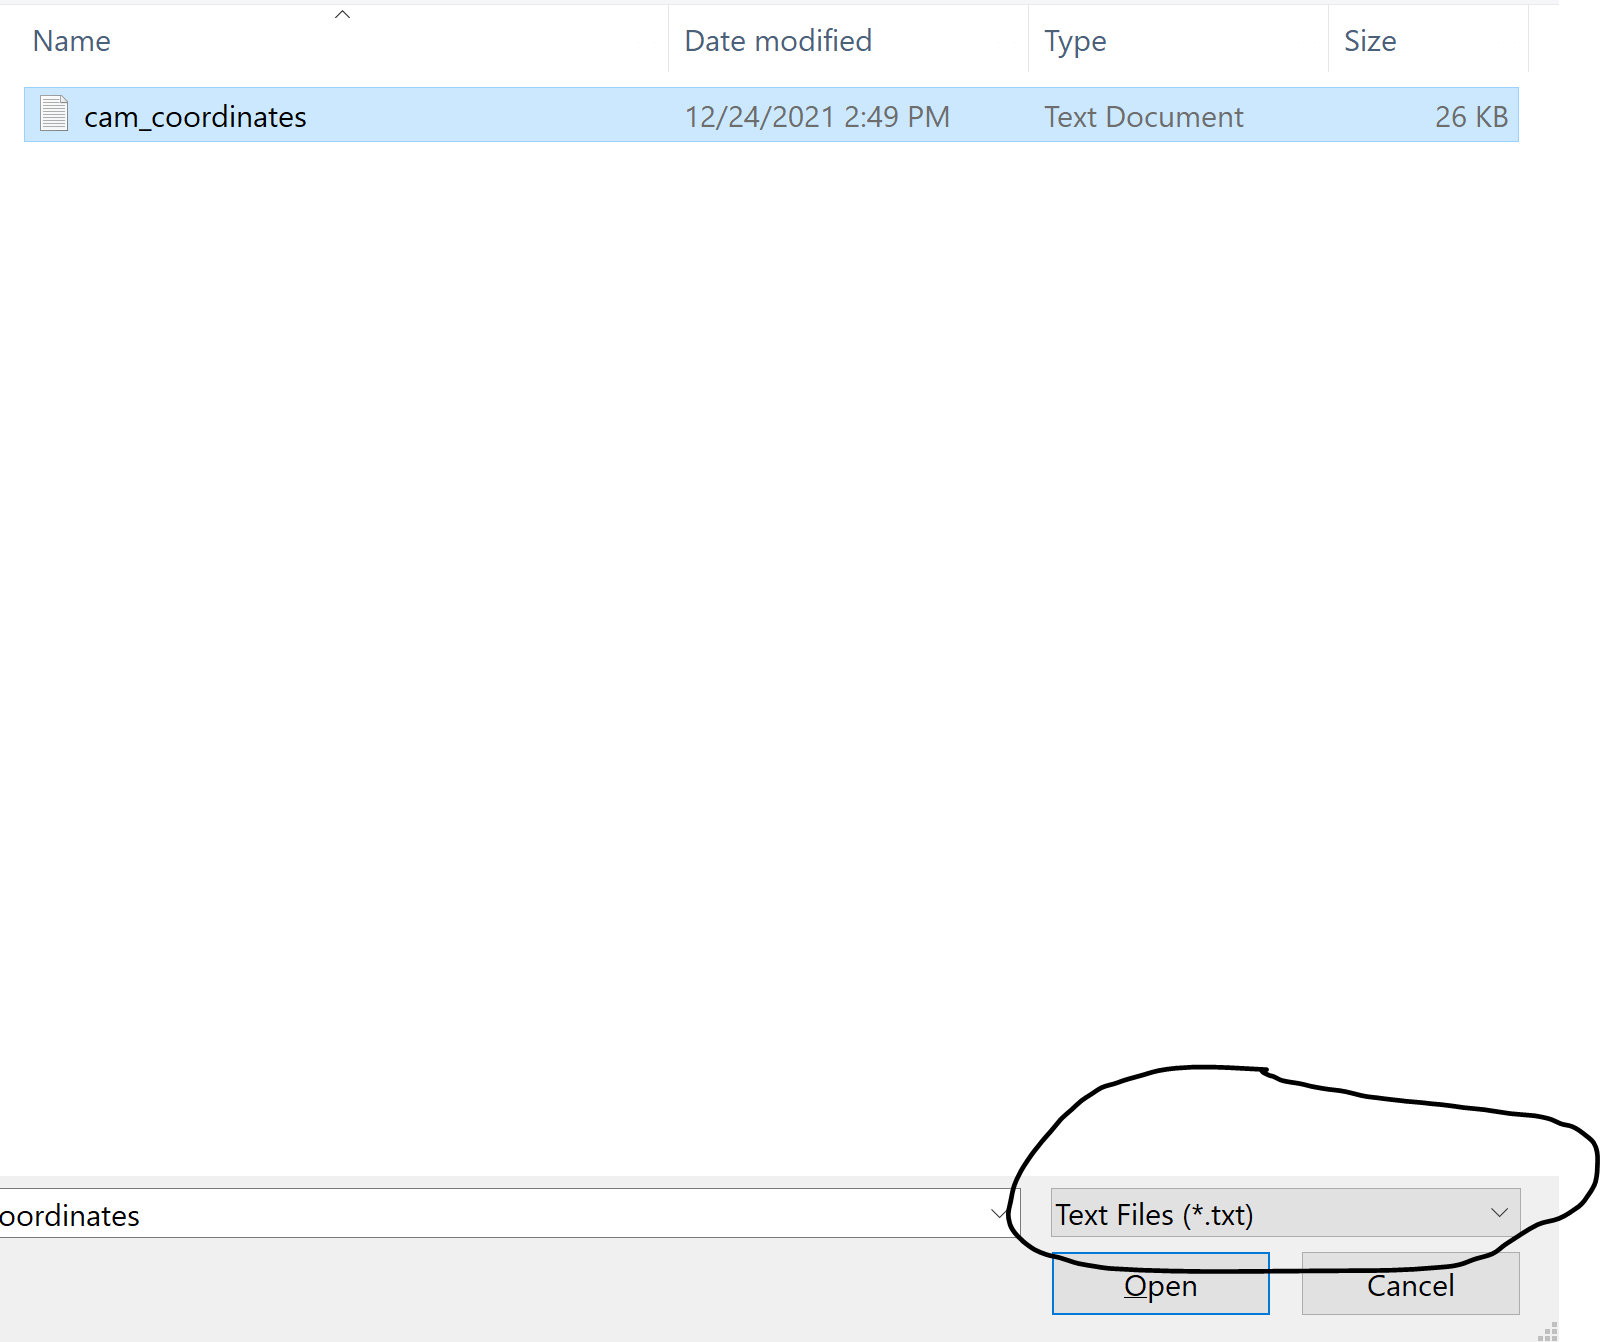
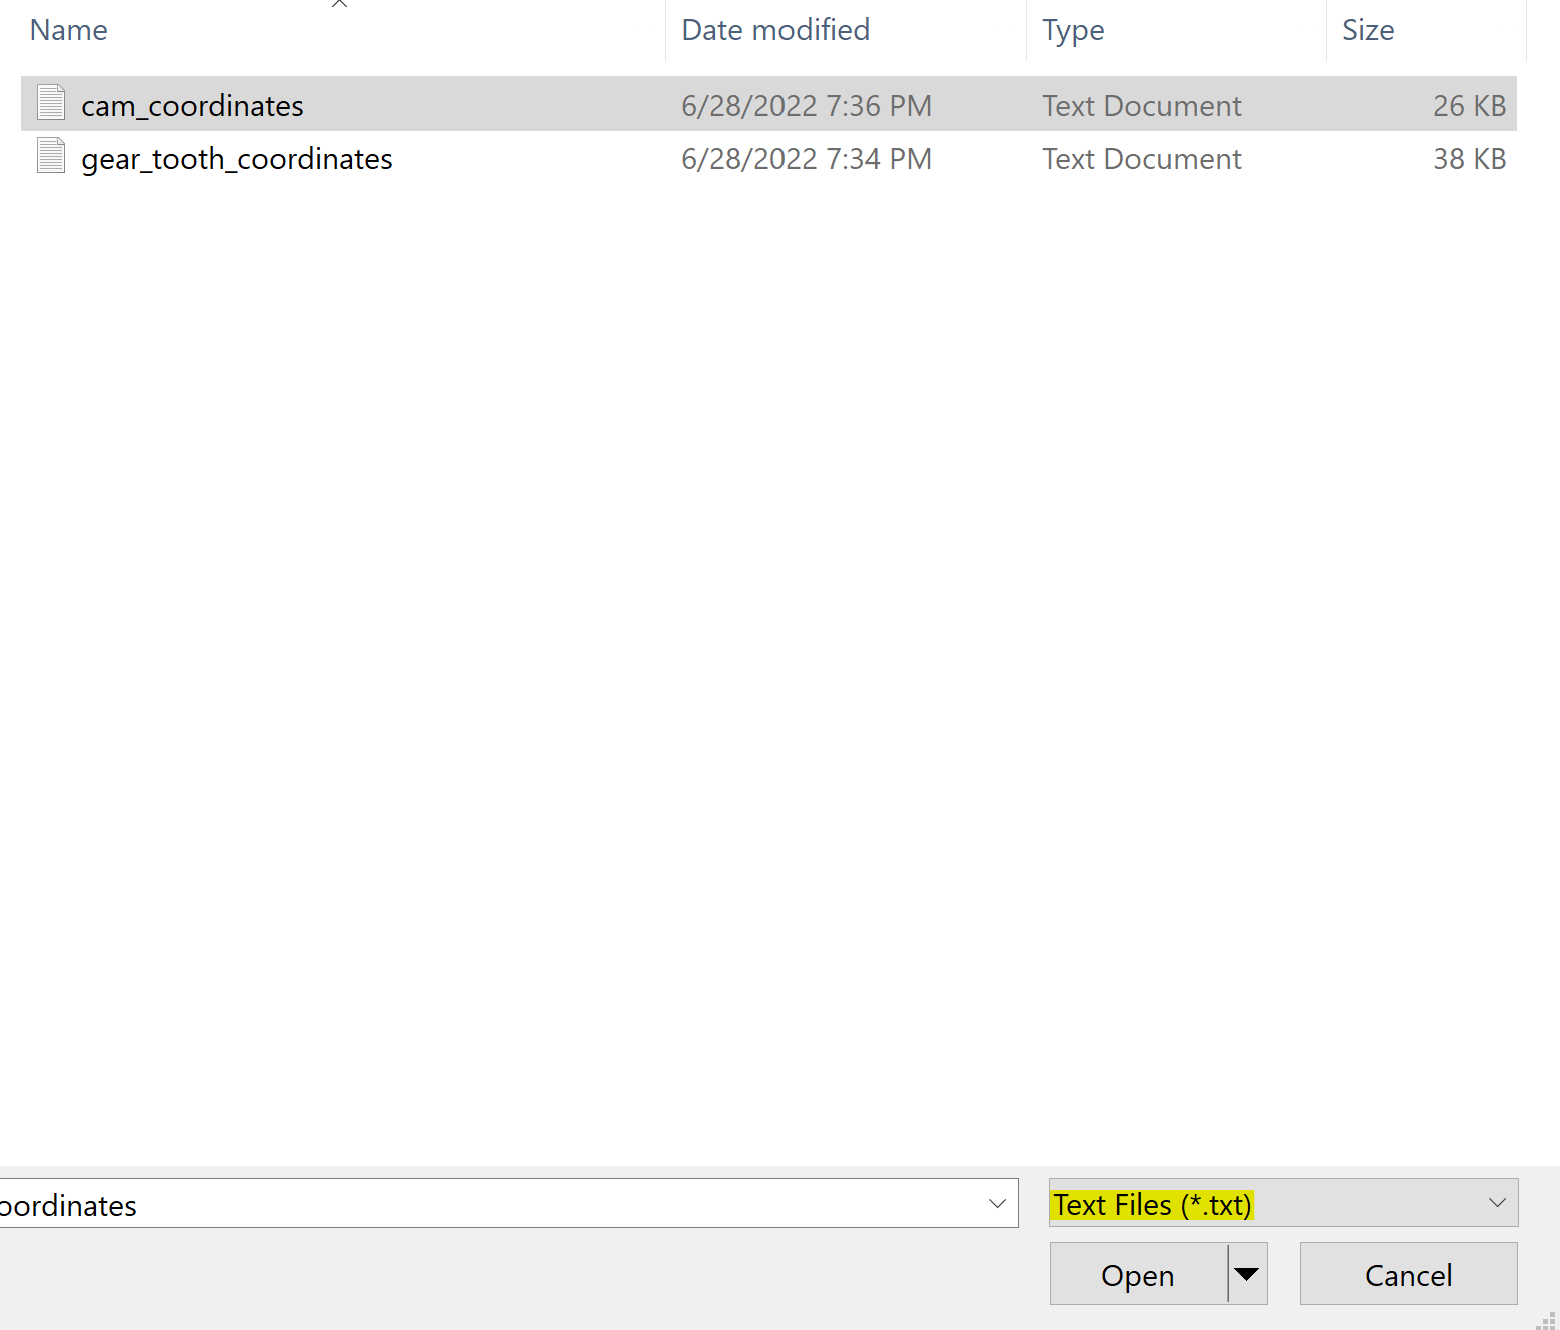
Updated readme photo

diff --git a/readme.md b/readme.md
@@ -336,7 +336,7 @@ Select `Curve Through XYZ Points`
 ![image not found](https://github.com/gabemorris12/mechanism/raw/master/images/curve_xyz.png)
 
 The cam profile will always be extended to the front plane due to the manner in which SolidWorks defines the global
-coordinates. Next, select browse and choose the saved coordinate file.
+coordinates. Next, select browse and choose the saved coordinate file, making sure that text files are able to be seen.
 
 ![image not found](https://github.com/gabemorris12/mechanism/raw/master/images/select_file.PNG)
 
